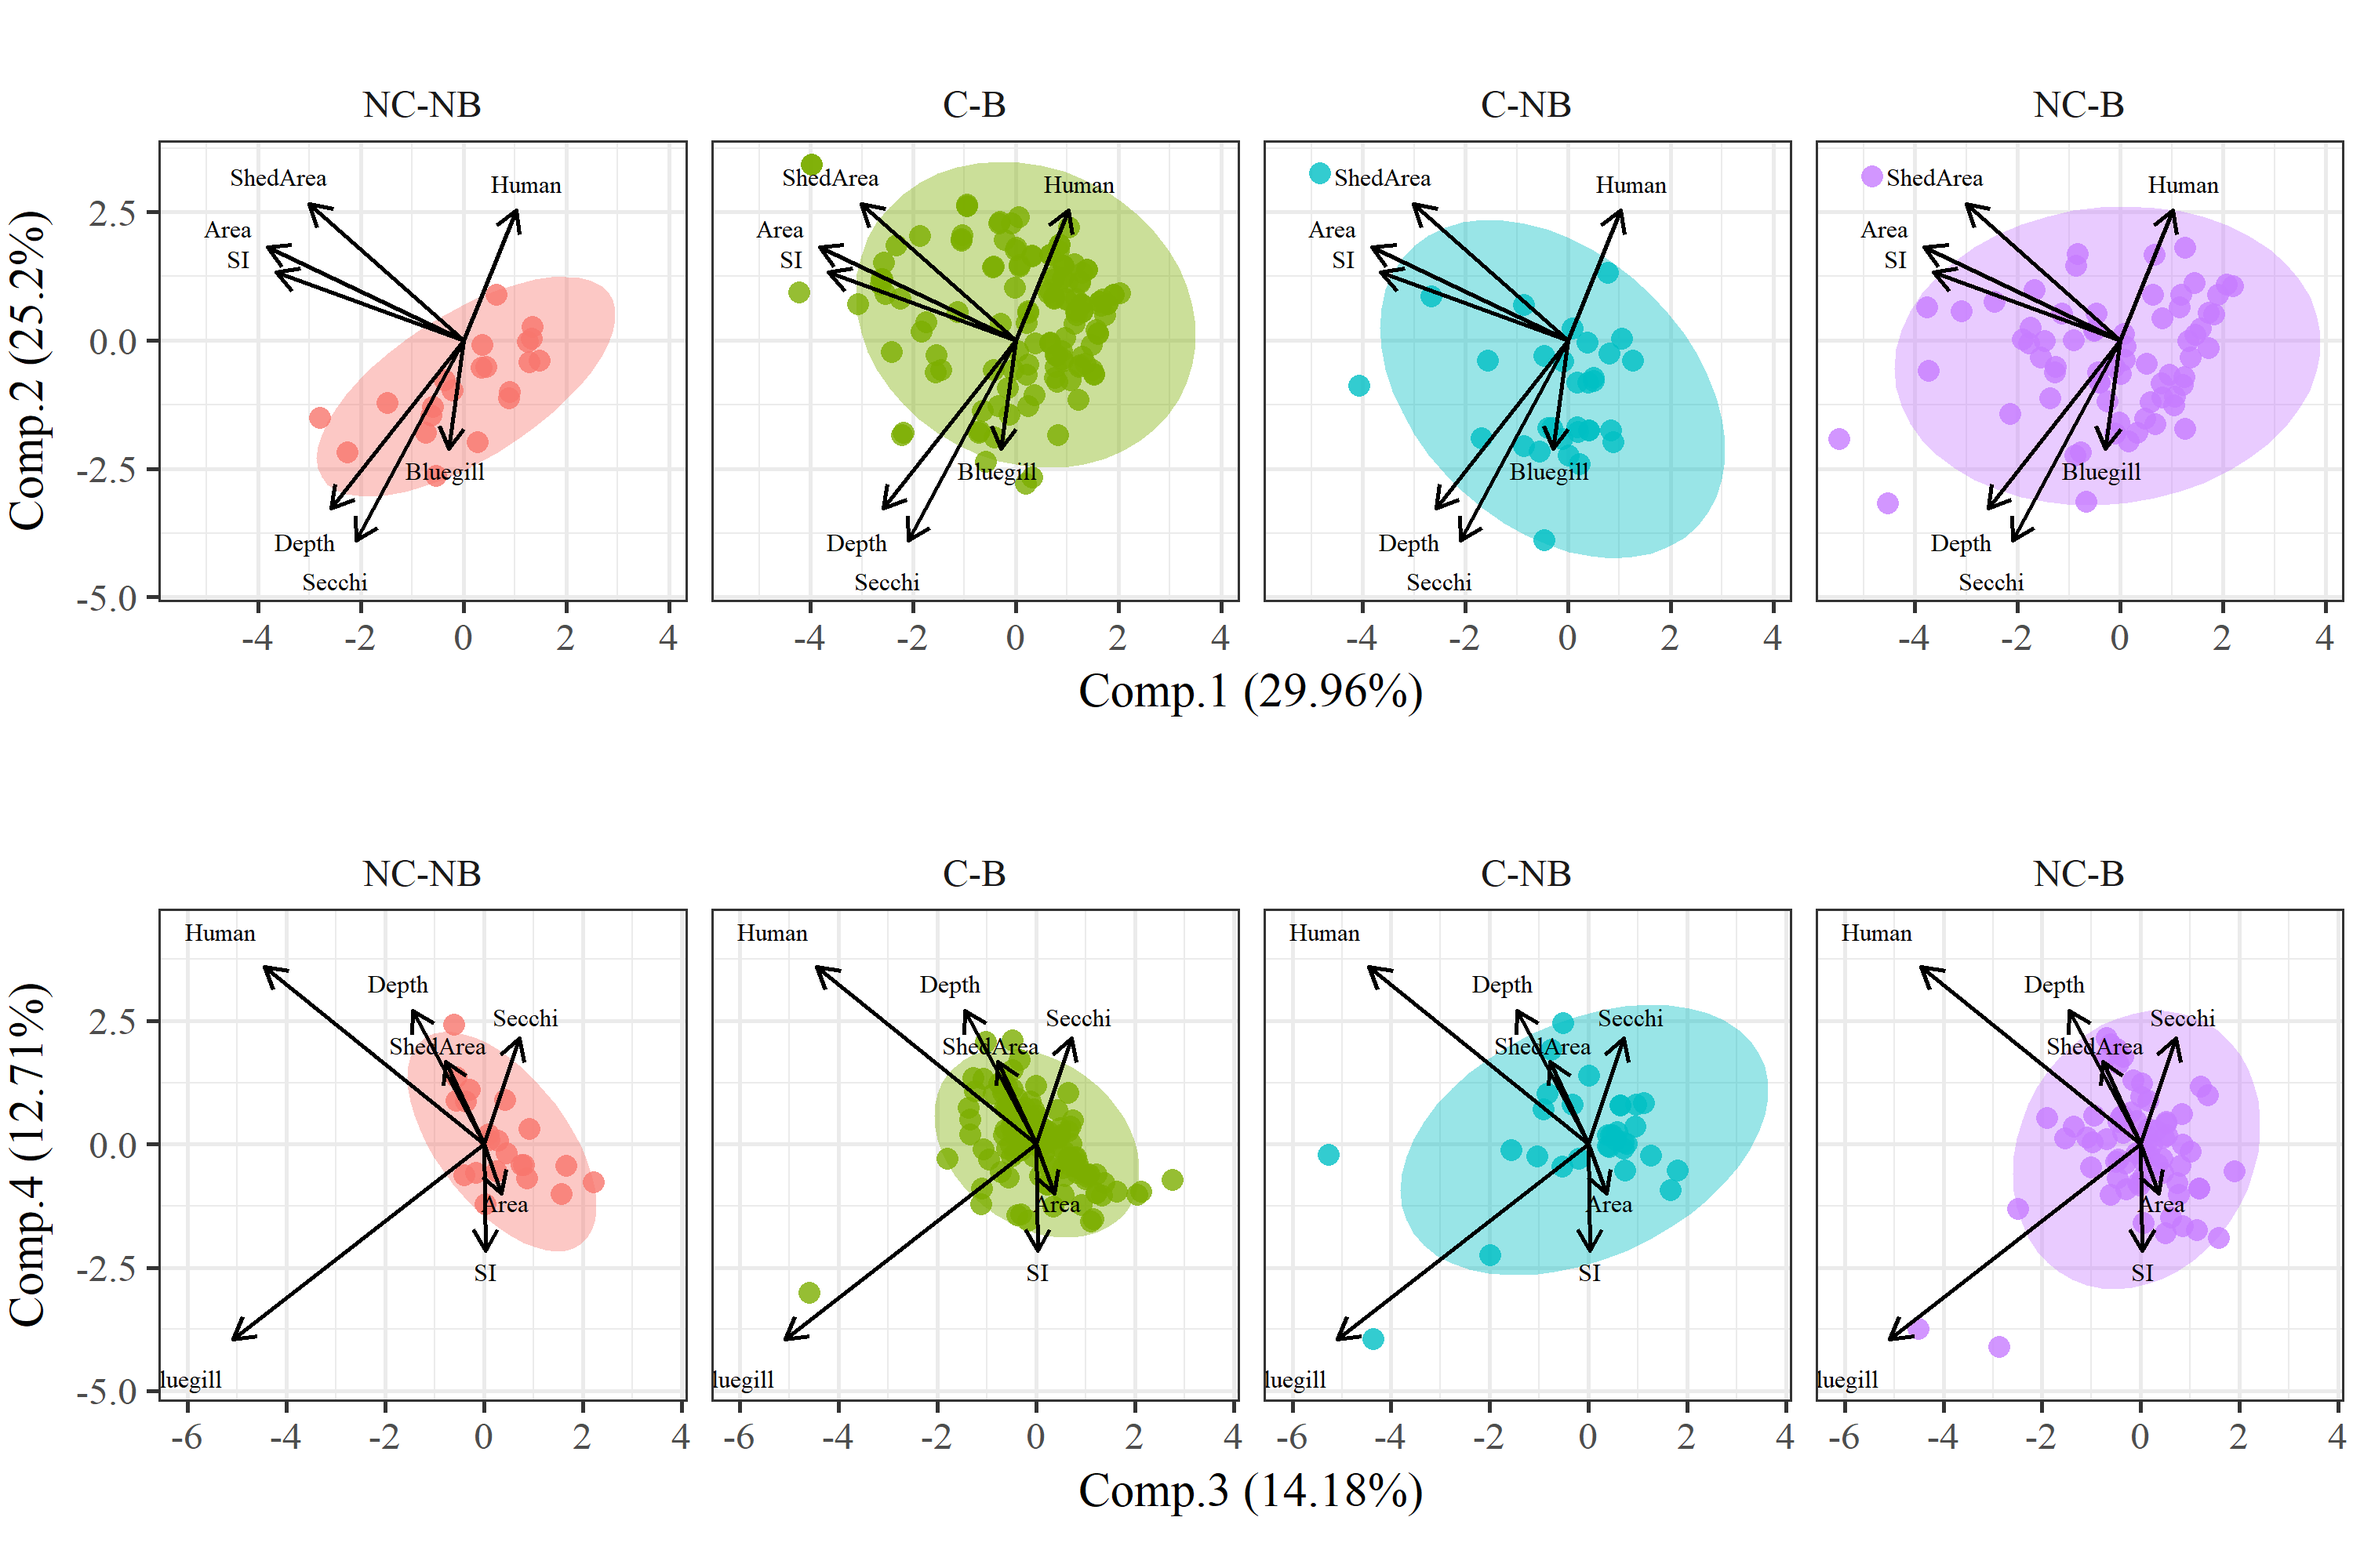
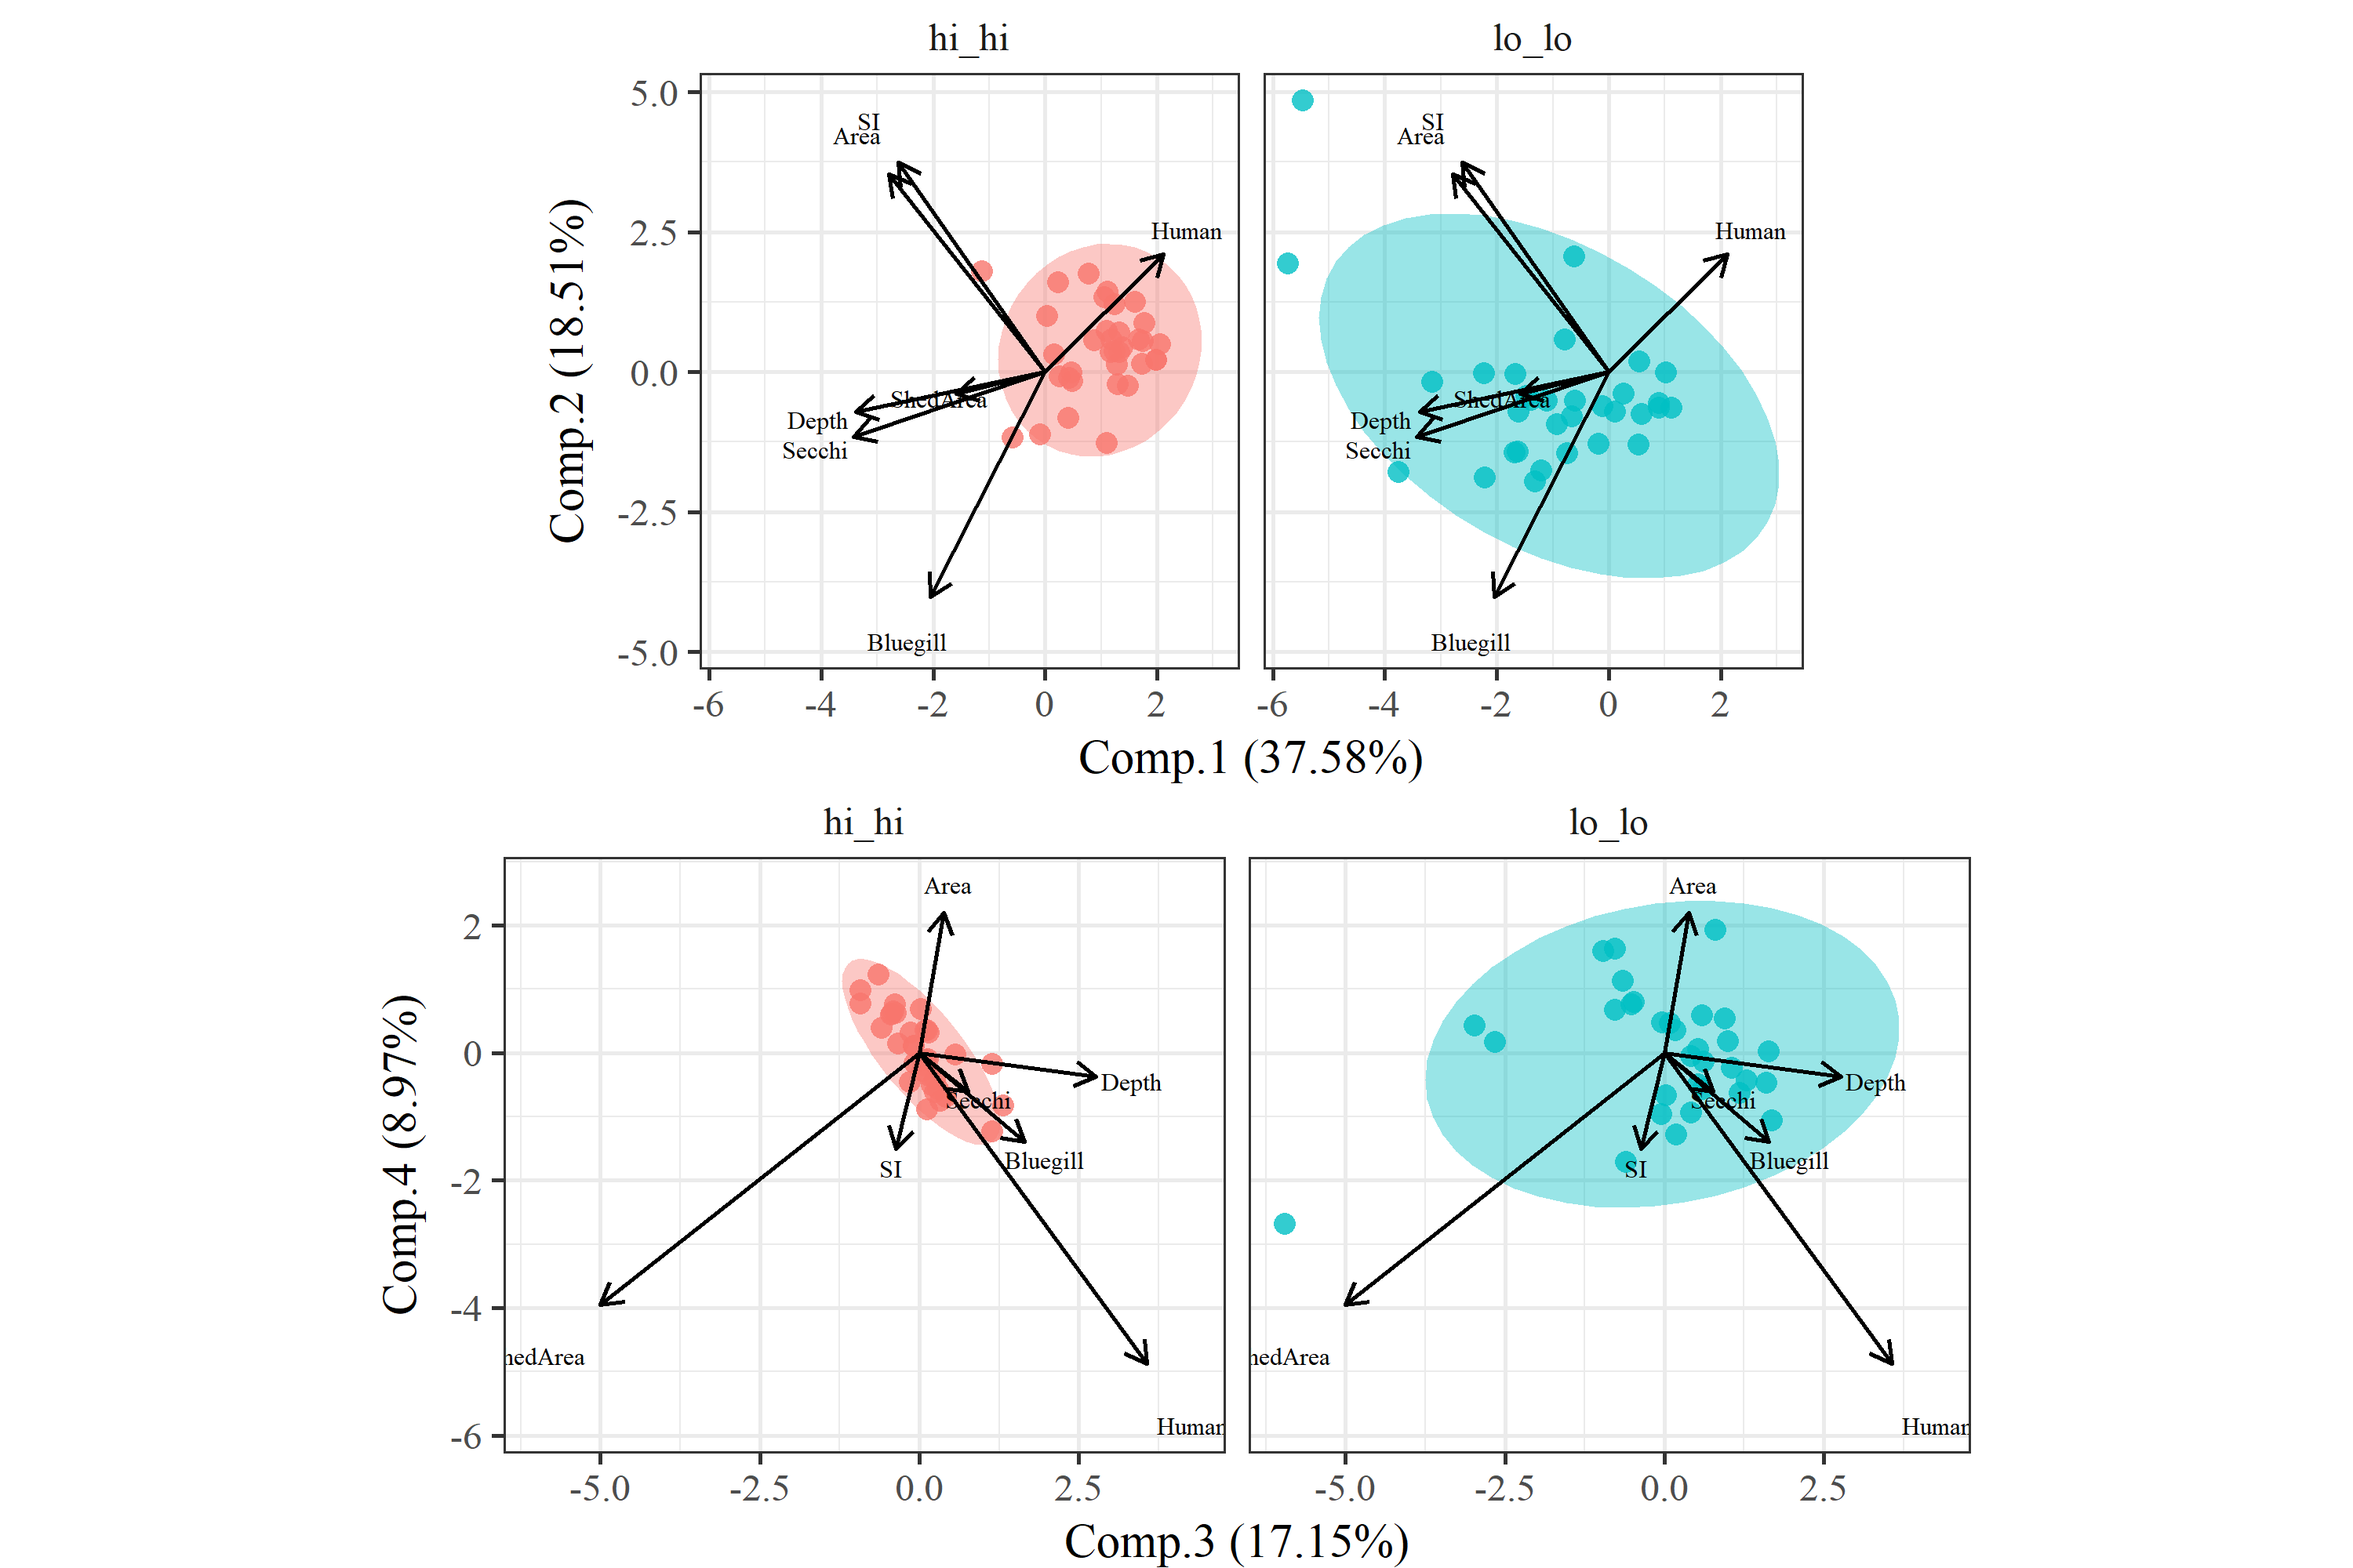
hi/lo lakes only

diff --git a/README.html b/README.html
@@ -330,24 +330,19 @@ names(d) &lt;- c(
 )
 levels(d$Ecoregion) &lt;- c(&quot;Forest&quot;, &quot;Plain&quot;)
 
-d &lt;- within(d, {
-  Bullhead.cut &lt;- cut(Bullhead, c(-Inf, 0, 0.5, 1, 2, 5, 10, 20, Inf))
-  Carp.cut &lt;- cut(Carp, c(-Inf, 0, 0.5, 1, 2, 5, 10, 20, Inf))
-  Bullhead.plusMin &lt;- Bullhead + min(Bullhead[Bullhead &gt; 0])
-  Carp.plusMin &lt;- Carp + min(Carp[Carp &gt; 0])
-  Bluegill.plusMin &lt;- Bluegill + min(Bluegill[Bluegill &gt; 0])
-})
-d$AnyCarp &lt;- ifelse(d$Carp &gt; 0, &quot;C&quot;, &quot;NC&quot;) ## 1 is a value for Carp and bullhead when impact becomes visible
-d$AnyBullhead &lt;- ifelse(d$Bullhead &gt; 0, &quot;B&quot;, &quot;NB&quot;)
-d$Group &lt;- factor(paste0(d$AnyCarp, &quot;-&quot;, d$AnyBullhead))
-d$Group &lt;- relevel(d$Group, &quot;NC-NB&quot;)
-d1 &lt;- subset(d, ShedArea &lt; 100000000 &amp; Area &lt; 10000000)
+d &lt;- d %&gt;% 
+  mutate(
+    carp_cat = cut(Carp, c(-Inf, quantile(Carp, c(0.25, 0.75)), Inf), labels = c(&#39;lo&#39;, &#39;md&#39;, &#39;hi&#39;)), 
+    bull_cat = cut(Bullhead, c(-Inf, quantile(Bullhead, c(0.25, 0.75)), Inf), labels = c(&#39;lo&#39;, &#39;md&#39;, &#39;hi&#39;))
+  ) %&gt;% 
+  unite(&#39;Group&#39;, carp_cat, bull_cat) %&gt;% 
+  filter(Group %in% c(&#39;lo_lo&#39;, &#39;hi_hi&#39;))
 
 # lake groups
-grps &lt;- d1$Group
+grps &lt;- d$Group
 
 # standardized variables with lake groups
-vargrp &lt;-  d1 %&gt;% 
+vargrp &lt;-  d %&gt;% 
   select(Depth, Secchi, Area, SI, ShedArea, Human, Bluegill) %&gt;% 
   decostand(method = &#39;standardize&#39;) %&gt;% 
   mutate(Group = grps)
@@ -366,117 +361,61 @@ efagrp &lt;- vargrp %&gt;%
   select(-data) %&gt;% 
   deframe
 efagrp</code></pre>
-<pre><code>## $`C-B`
+<pre><code>## $lo_lo
 ## 
 ## Call:
 ## factanal(x = x, factors = 3, rotation = &quot;varimax&quot;)
 ## 
 ## Uniquenesses:
 ##    Depth   Secchi     Area       SI ShedArea    Human Bluegill 
-##    0.366    0.229    0.265    0.517    0.491    0.005    0.841 
+##    0.005    0.771    0.414    0.095    0.775    0.005    0.924 
 ## 
 ## Loadings:
 ##          Factor1 Factor2 Factor3
-## Depth     0.149   0.781         
-## Secchi            0.841  -0.248 
-## Area      0.853                 
-## SI        0.694                 
-## ShedArea  0.616           0.357 
-## Human            -0.159   0.983 
-## Bluegill          0.394         
+## Depth     0.759   0.402   0.506 
+## Secchi    0.448           0.164 
+## Area      0.750  -0.129         
+## SI        0.851  -0.150  -0.398 
+## ShedArea         -0.448  -0.137 
+## Human             0.929  -0.359 
+## Bluegill                  0.273 
 ## 
 ##                Factor1 Factor2 Factor3
-## SS loadings      1.620   1.508   1.159
-## Proportion Var   0.231   0.215   0.166
-## Cumulative Var   0.231   0.447   0.612
+## SS loadings      2.074   1.266   0.670
+## Proportion Var   0.296   0.181   0.096
+## Cumulative Var   0.296   0.477   0.573
 ## 
 ## Test of the hypothesis that 3 factors are sufficient.
-## The chi square statistic is 14.97 on 3 degrees of freedom.
-## The p-value is 0.00184 
+## The chi square statistic is 0.46 on 3 degrees of freedom.
+## The p-value is 0.928 
 ## 
-## $`NC-B`
+## $hi_hi
 ## 
 ## Call:
 ## factanal(x = x, factors = 3, rotation = &quot;varimax&quot;)
 ## 
 ## Uniquenesses:
 ##    Depth   Secchi     Area       SI ShedArea    Human Bluegill 
-##    0.620    0.005    0.278    0.570    0.693    0.804    0.005 
+##    0.099    0.633    0.005    0.839    0.515    0.005    0.637 
 ## 
 ## Loadings:
 ##          Factor1 Factor2 Factor3
-## Depth     0.223   0.574         
-## Secchi            0.994         
-## Area      0.840   0.119         
-## SI        0.617   0.219         
-## ShedArea  0.537          -0.136 
-## Human    -0.334  -0.266  -0.117 
-## Bluegill                  0.994 
+## Depth     0.948                 
+## Secchi    0.563   0.158  -0.159 
+## Area              0.973  -0.216 
+## SI       -0.205   0.324  -0.120 
+## ShedArea  0.126   0.650   0.216 
+## Human                     0.995 
+## Bluegill  0.535  -0.244   0.129 
 ## 
 ##                Factor1 Factor2 Factor3
-## SS loadings       1.54   1.454   1.031
-## Proportion Var    0.22   0.208   0.147
-## Cumulative Var    0.22   0.428   0.575
+## SS loadings      1.566   1.562   1.139
+## Proportion Var   0.224   0.223   0.163
+## Cumulative Var   0.224   0.447   0.610
 ## 
 ## Test of the hypothesis that 3 factors are sufficient.
-## The chi square statistic is 3.9 on 3 degrees of freedom.
-## The p-value is 0.273 
-## 
-## $`C-NB`
-## 
-## Call:
-## factanal(x = x, factors = 3, rotation = &quot;varimax&quot;)
-## 
-## Uniquenesses:
-##    Depth   Secchi     Area       SI ShedArea    Human Bluegill 
-##    0.005    0.748    0.267    0.490    0.198    0.653    0.598 
-## 
-## Loadings:
-##          Factor1 Factor2 Factor3
-## Depth             0.932   0.342 
-## Secchi   -0.179   0.462         
-## Area      0.844  -0.123         
-## SI        0.690  -0.122   0.139 
-## ShedArea  0.894                 
-## Human     0.174   0.103   0.554 
-## Bluegill -0.163           0.613 
-## 
-##                Factor1 Factor2 Factor3
-## SS loadings      2.084   1.124   0.834
-## Proportion Var   0.298   0.161   0.119
-## Cumulative Var   0.298   0.458   0.577
-## 
-## Test of the hypothesis that 3 factors are sufficient.
-## The chi square statistic is 2.06 on 3 degrees of freedom.
-## The p-value is 0.56 
-## 
-## $`NC-NB`
-## 
-## Call:
-## factanal(x = x, factors = 3, rotation = &quot;varimax&quot;)
-## 
-## Uniquenesses:
-##    Depth   Secchi     Area       SI ShedArea    Human Bluegill 
-##    0.175    0.005    0.249    0.308    0.832    0.418    0.478 
-## 
-## Loadings:
-##          Factor1 Factor2 Factor3
-## Depth     0.738   0.462  -0.259 
-## Secchi            0.988   0.106 
-## Area      0.804           0.323 
-## SI        0.427   0.424   0.575 
-## ShedArea          0.176   0.370 
-## Human             0.170  -0.740 
-## Bluegill  0.721                 
-## 
-##                Factor1 Factor2 Factor3
-## SS loadings      1.907   1.430   1.198
-## Proportion Var   0.272   0.204   0.171
-## Cumulative Var   0.272   0.477   0.648
-## 
-## Test of the hypothesis that 3 factors are sufficient.
-## The chi square statistic is 1.44 on 3 degrees of freedom.
-## The p-value is 0.696</code></pre>
+## The chi square statistic is 0.21 on 3 degrees of freedom.
+## The p-value is 0.976</code></pre>
 </div>
 </div>
 

diff --git a/README.md b/README.md
@@ -103,24 +103,19 @@ names(d) <- c(
 )
 levels(d$Ecoregion) <- c("Forest", "Plain")
 
-d <- within(d, {
-  Bullhead.cut <- cut(Bullhead, c(-Inf, 0, 0.5, 1, 2, 5, 10, 20, Inf))
-  Carp.cut <- cut(Carp, c(-Inf, 0, 0.5, 1, 2, 5, 10, 20, Inf))
-  Bullhead.plusMin <- Bullhead + min(Bullhead[Bullhead > 0])
-  Carp.plusMin <- Carp + min(Carp[Carp > 0])
-  Bluegill.plusMin <- Bluegill + min(Bluegill[Bluegill > 0])
-})
-d$AnyCarp <- ifelse(d$Carp > 0, "C", "NC") ## 1 is a value for Carp and bullhead when impact becomes visible
-d$AnyBullhead <- ifelse(d$Bullhead > 0, "B", "NB")
-d$Group <- factor(paste0(d$AnyCarp, "-", d$AnyBullhead))
-d$Group <- relevel(d$Group, "NC-NB")
-d1 <- subset(d, ShedArea < 100000000 & Area < 10000000)
+d <- d %>% 
+  mutate(
+    carp_cat = cut(Carp, c(-Inf, quantile(Carp, c(0.25, 0.75)), Inf), labels = c('lo', 'md', 'hi')), 
+    bull_cat = cut(Bullhead, c(-Inf, quantile(Bullhead, c(0.25, 0.75)), Inf), labels = c('lo', 'md', 'hi'))
+  ) %>% 
+  unite('Group', carp_cat, bull_cat) %>% 
+  filter(Group %in% c('lo_lo', 'hi_hi'))
 
 # lake groups
-grps <- d1$Group
+grps <- d$Group
 
 # standardized variables with lake groups
-vargrp <-  d1 %>% 
+vargrp <-  d %>% 
   select(Depth, Secchi, Area, SI, ShedArea, Human, Bluegill) %>% 
   decostand(method = 'standardize') %>% 
   mutate(Group = grps)
@@ -142,116 +137,60 @@ efagrp
 ```
 
 ```
-## $`C-B`
+## $lo_lo
 ## 
 ## Call:
 ## factanal(x = x, factors = 3, rotation = "varimax")
 ## 
 ## Uniquenesses:
 ##    Depth   Secchi     Area       SI ShedArea    Human Bluegill 
-##    0.366    0.229    0.265    0.517    0.491    0.005    0.841 
+##    0.005    0.771    0.414    0.095    0.775    0.005    0.924 
 ## 
 ## Loadings:
 ##          Factor1 Factor2 Factor3
-## Depth     0.149   0.781         
-## Secchi            0.841  -0.248 
-## Area      0.853                 
-## SI        0.694                 
-## ShedArea  0.616           0.357 
-## Human            -0.159   0.983 
-## Bluegill          0.394         
+## Depth     0.759   0.402   0.506 
+## Secchi    0.448           0.164 
+## Area      0.750  -0.129         
+## SI        0.851  -0.150  -0.398 
+## ShedArea         -0.448  -0.137 
+## Human             0.929  -0.359 
+## Bluegill                  0.273 
 ## 
 ##                Factor1 Factor2 Factor3
-## SS loadings      1.620   1.508   1.159
-## Proportion Var   0.231   0.215   0.166
-## Cumulative Var   0.231   0.447   0.612
+## SS loadings      2.074   1.266   0.670
+## Proportion Var   0.296   0.181   0.096
+## Cumulative Var   0.296   0.477   0.573
 ## 
 ## Test of the hypothesis that 3 factors are sufficient.
-## The chi square statistic is 14.97 on 3 degrees of freedom.
-## The p-value is 0.00184 
+## The chi square statistic is 0.46 on 3 degrees of freedom.
+## The p-value is 0.928 
 ## 
-## $`NC-B`
+## $hi_hi
 ## 
 ## Call:
 ## factanal(x = x, factors = 3, rotation = "varimax")
 ## 
 ## Uniquenesses:
 ##    Depth   Secchi     Area       SI ShedArea    Human Bluegill 
-##    0.620    0.005    0.278    0.570    0.693    0.804    0.005 
+##    0.099    0.633    0.005    0.839    0.515    0.005    0.637 
 ## 
 ## Loadings:
 ##          Factor1 Factor2 Factor3
-## Depth     0.223   0.574         
-## Secchi            0.994         
-## Area      0.840   0.119         
-## SI        0.617   0.219         
-## ShedArea  0.537          -0.136 
-## Human    -0.334  -0.266  -0.117 
-## Bluegill                  0.994 
+## Depth     0.948                 
+## Secchi    0.563   0.158  -0.159 
+## Area              0.973  -0.216 
+## SI       -0.205   0.324  -0.120 
+## ShedArea  0.126   0.650   0.216 
+## Human                     0.995 
+## Bluegill  0.535  -0.244   0.129 
 ## 
 ##                Factor1 Factor2 Factor3
-## SS loadings       1.54   1.454   1.031
-## Proportion Var    0.22   0.208   0.147
-## Cumulative Var    0.22   0.428   0.575
+## SS loadings      1.566   1.562   1.139
+## Proportion Var   0.224   0.223   0.163
+## Cumulative Var   0.224   0.447   0.610
 ## 
 ## Test of the hypothesis that 3 factors are sufficient.
-## The chi square statistic is 3.9 on 3 degrees of freedom.
-## The p-value is 0.273 
-## 
-## $`C-NB`
-## 
-## Call:
-## factanal(x = x, factors = 3, rotation = "varimax")
-## 
-## Uniquenesses:
-##    Depth   Secchi     Area       SI ShedArea    Human Bluegill 
-##    0.005    0.748    0.267    0.490    0.198    0.653    0.598 
-## 
-## Loadings:
-##          Factor1 Factor2 Factor3
-## Depth             0.932   0.342 
-## Secchi   -0.179   0.462         
-## Area      0.844  -0.123         
-## SI        0.690  -0.122   0.139 
-## ShedArea  0.894                 
-## Human     0.174   0.103   0.554 
-## Bluegill -0.163           0.613 
-## 
-##                Factor1 Factor2 Factor3
-## SS loadings      2.084   1.124   0.834
-## Proportion Var   0.298   0.161   0.119
-## Cumulative Var   0.298   0.458   0.577
-## 
-## Test of the hypothesis that 3 factors are sufficient.
-## The chi square statistic is 2.06 on 3 degrees of freedom.
-## The p-value is 0.56 
-## 
-## $`NC-NB`
-## 
-## Call:
-## factanal(x = x, factors = 3, rotation = "varimax")
-## 
-## Uniquenesses:
-##    Depth   Secchi     Area       SI ShedArea    Human Bluegill 
-##    0.175    0.005    0.249    0.308    0.832    0.418    0.478 
-## 
-## Loadings:
-##          Factor1 Factor2 Factor3
-## Depth     0.738   0.462  -0.259 
-## Secchi            0.988   0.106 
-## Area      0.804           0.323 
-## SI        0.427   0.424   0.575 
-## ShedArea          0.176   0.370 
-## Human             0.170  -0.740 
-## Bluegill  0.721                 
-## 
-##                Factor1 Factor2 Factor3
-## SS loadings      1.907   1.430   1.198
-## Proportion Var   0.272   0.204   0.171
-## Cumulative Var   0.272   0.477   0.648
-## 
-## Test of the hypothesis that 3 factors are sufficient.
-## The chi square statistic is 1.44 on 3 degrees of freedom.
-## The p-value is 0.696
+## The chi square statistic is 0.21 on 3 degrees of freedom.
+## The p-value is 0.976
 ```
 
